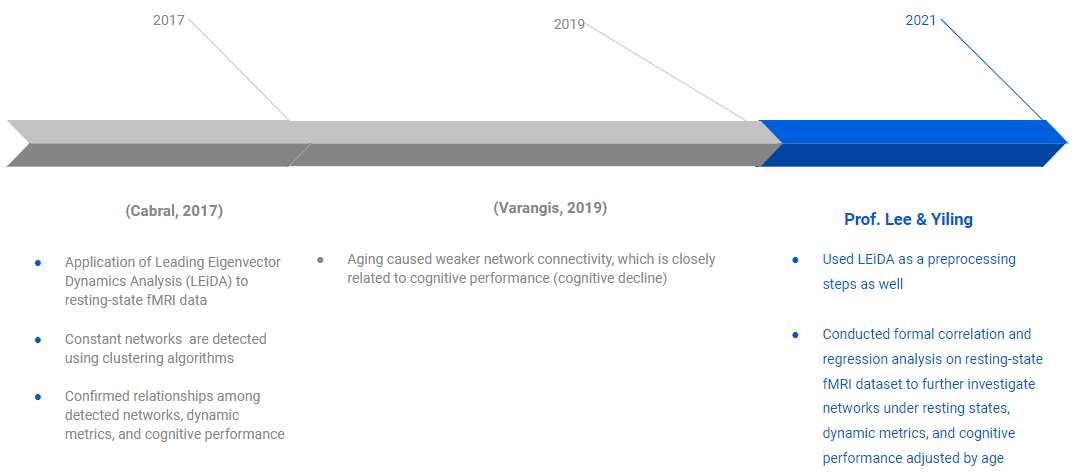
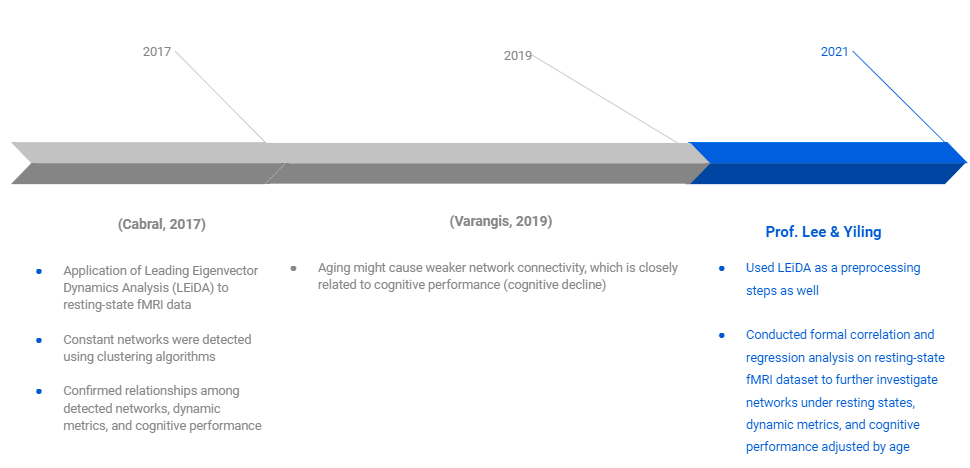
review index page

diff --git a/index.html b/index.html
@@ -394,7 +394,7 @@ div.tocify {
 <div style="margin-bottom:30px;">
 
 </div>
-<p>In 2017, researchers suggested Leading Eigenvector Dynamic Analysis as a way to processing and cluster BOLD signals (Cabral, 2017). LEiDA analysis effectively extracts phase information of the BOLD signal while reducing the dimension of data. Back then, it was a good exploration of a new method. Varangies and et.al suggested the aging effect on cognitive declining in 2019 (Varangies, 2019).</p>
+<p>In 2017, researchers suggested Leading Eigenvector Dynamic Analysis (LEiDA) as a way to processing and cluster BOLD signals (Cabral, 2017). LEiDA analysis effectively extracts phase information of the BOLD signal while reduces the dimension of data. Back then, it was a good exploration of a new method. Varangies and et al. suggested the aging effect on cognitive declining in 2019 (Varangies, 2019).</p>
 <div style="margin-bottom:30px;">
 
 </div>
@@ -404,14 +404,14 @@ div.tocify {
 <div style="margin-bottom:30px;">
 
 </div>
-<p>In this research project, we aimed to further validate LEiDA using more comprehensive data (More observations and more recorded ROIs) and take the aging effect into account by including it in a correlation and regression analysis. Using data collected by Shen atlas and similar dynamic metrics in Cabral’s paper, we led to a similar conclusion even after taking the aging effect into account. Meanwhile, we consider there is still space for improvement, especially in terms of algorithm selection during the clustering analysis process.</p>
+<p>In this research project, we aimed to further validate LEiDA using more comprehensive data (more observations and more recorded ROIs) and take the aging effect into account by including it in a correlation and regression analysis. Using data collected by Shen atlas and similar dynamic metrics in Cabral’s paper, we led to similar conclusions even after taking the aging effect into account. Meanwhile, we consider there is still space for improvement, especially in terms of algorithm selection during the clustering analysis process.</p>
 <div style="margin-bottom:50px;">
 
 </div>
 </div>
 <div id="data" class="section level1">
 <h1>Data</h1>
-<p>There are three datasets involved in this project. Demographic and Neuropsychological scores were required before the fMRI study. In later analysis, neuropsychological scores will be considered as primary interests or dependent variables. The demographic dataset contains age information for each subject, which is used as an adjustment for regression analysis. The fMRI data were used for clustering analysis and derivation of dynamic metrics (introduce later), which mainly served as independent variables in later analysis.</p>
+<p>There are three datasets involved in this project. Demographic and Neuropsychological scores were required before the fMRI study. In later analysis, neuropsychological scores would be considered as primary interests or dependent variables. The demographic dataset provided age information for each subject, which was used as an adjustment for regression analysis. The fMRI data were used for clustering analysis and derivation of dynamic metrics (introduce later), which mainly served as independent variables in later analysis.</p>
 <div style="margin-bottom:30px;">
 
 </div>
@@ -424,7 +424,7 @@ div.tocify {
 </div>
 <div id="leida-clustering-analysis" class="section level1">
 <h1>LEiDA &amp; Clustering Analysis</h1>
-<p>Before any analysis, we removed the first and last 14-time points data due to the effect of filtering. To capture the phase of a BOLD signal, we performed <em>Hilbert Transformation</em>, a decomposition method. Cosine distance matrix at each time point. For such distance matrix at each time point, we performed <em>PCA</em> and kept the <em>1st</em> eigenvector only. Since the distance matrix is diagonal, the speed of processing can be significantly improved. Data entries were reduced from <span class="math inline">\(N^2\)</span> to <span class="math inline">\({N(N-1)}\over{2}\)</span>. The process so far is so-called <em>Leading Eigenvector Dynamic Analysis</em> (<em>LEiDA</em>). After removed some subjects with incorrect measured length and too much head motion, we performed <em>K-means</em> and <em>Gaussian Mixture Model</em> clustering on the stacked dataset of every subject. For K-means, <em>Dunn Index</em> was used for hyperparameter tuning. Lastly, <em>hierarchical clustering</em> was used to review similarities between clusters found by K-means and GMM.</p>
+<p>Before any analysis, we removed the first and last 14-time points data due to the effect of filtering. To capture the phase of a BOLD signal, we performed <em>Hilbert Transformation</em>, a decomposition method. Cosine distance matrix at each time point was computed for each subject. For such distance matrix at each time point, we performed <em>PCA</em> and kept the <em>1st</em> eigenvector only. Since the distance matrix is diagonal, the speed of processing can be significantly improved. Data entries were reduced from <span class="math inline">\(N^2\)</span> to <span class="math inline">\({N(N-1)}\over{2}\)</span>. The process so far is so-called <em>Leading Eigenvector Dynamic Analysis</em> (<em>LEiDA</em>). After removed some subjects with incorrect measured length and too much head motion, we performed <em>K-means</em> and <em>Gaussian Mixture Model</em> clustering on the stacked dataset of every subject. For K-means, <em>Dunn Index</em> was used for hyperparameter tuning. Lastly, <em>hierarchical clustering</em> was used to review similarities between clusters found by K-means and GMM.</p>
 <div style="margin-bottom:30px;">
 
 </div>
@@ -437,7 +437,7 @@ div.tocify {
 </div>
 <div id="corr-regression-analysis" class="section level1">
 <h1>Corr &amp; Regression Analysis</h1>
-<p>K-means gives us a cluster label to every moment a subject was in during the corresponding session. After then, we define 4 dynamic metrics to describe each subject’s brain behavior. All of them were used in later correlation and relation analysis. The previous study has found that age plays an important role in cognitive decline (Varangis, 2019). Given this information, we adjust the effect of independent variables by including the main effect and interaction effect of age. This is also helpful that it can be used to examine a potential confounding effect induced by age.</p>
+<p>K-means gave us a cluster label to every moment a subject was in during the corresponding session. After then, we defined 4 dynamic metrics to describe each subject’s brain behavior. All of them were used in later correlation and relation analysis. The previous study has found that age plays an important role in cognitive decline (Varangis, 2019). Given this information, we adjusted the effect of independent variables by including the main effect and interaction effect of age. This was also helpful that it can be used to examine a potential confounding effect induced by age.</p>
 <div style="margin-bottom:30px;">
 
 </div>
@@ -489,7 +489,7 @@ div.tocify {
 </div>
 <div id="correlation-analysis-pearson" class="section level2">
 <h2>Correlation Analysis (Pearson)</h2>
-<p>Through correlation analysis among neuropsychological scores and dynamic metrics, we found many significant correlations. This suggested it might be necessary to dive in more about their relationships (See results below), especially we can take age into account. We will talk more about this in the regression section.</p>
+<p>Through correlation analysis among neuropsychological scores and dynamic metrics, we found many significant correlations. This suggests it might be necessary to dive in more about their relationships (See results below), especially we can take age into account. We will talk more about this in the regression section.</p>
 <div style="margin-bottom:30px;">
 
 </div>
@@ -511,7 +511,7 @@ div.tocify {
 </div>
 <div id="regression-analysis" class="section level2">
 <h2>Regression Analysis</h2>
-<p>In terms of regression analysis, we found many significant effects. Without surprise, age is always a significant effect when combining with any independent variable. Results are summarized below. It’s worth noting that when adding the interaction term between age and independent variable, none of them had a huge change in their main effect and no interaction was significant. This suggested the non-existence of confounding effects by age.</p>
+<p>In terms of regression analysis, we found many significant effects. Without surprise, age is always a significant effect when combining with any independent variable. Results are summarized below. It’s worth noting that when adding the interaction term between age and independent variable, none of them had a huge change in their main effect and no interaction was significant. This suggests the non-existence of confounding effects by age.</p>
 <div style="margin-bottom:30px;">
 
 </div>
@@ -535,8 +535,8 @@ div.tocify {
 
 </div>
 <ul>
-<li>In addition to validating the methodology used by the previous study (Hilbert transformation and clustering analysis), We further identified many significant effects between identified networks and correlation with cognitive capabilities have. More importantly, those effects are adjusted by the aging effect</li>
-<li>Future researchers can further validate using different methods. Since clustering results tend to be different if we switch to different types of clustering methods such as GMM</li>
+<li>In addition to validating the methodology used by the previous study (Hilbert transformation and clustering analysis), We further identified many significant effects between identified networks and correlation with cognitive capabilities have. More importantly, those effects were adjusted by the aging effect</li>
+<li>Future researchers can further validate using different methods, since clustering results tended to be different if we switch to different types of clustering methods such as GMM</li>
 <li>Future researchers can also investigate one specific cognitive capability in detail given that we only performed relatively straightforward regression analysis</li>
 </ul>
 <div style="margin-bottom:50px;">
